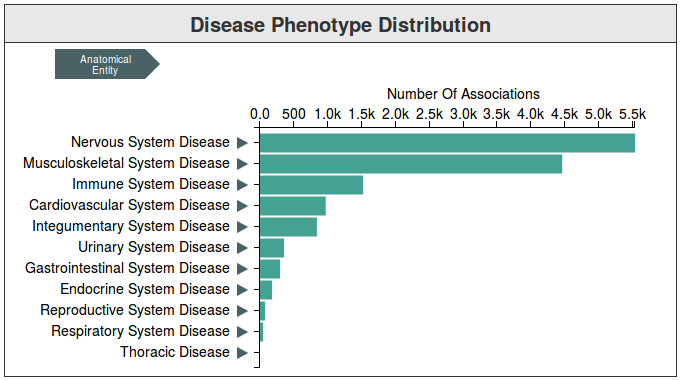
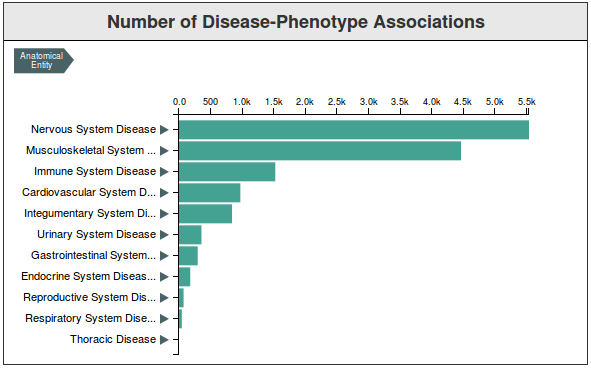
update screenshots on home page, closes #631

Changed region(s): [[0.0, 0.0, 1.0, 1.0]]

diff --git a/js/graph_config.js b/js/graph_config.js
@@ -13,7 +13,7 @@ bbop.monarch.homePageConfig = {
         bread : {width:60, height: 25, offset:50, space: 1},
         
         //Chart margins    
-        margin : {top: 35, right: 63, bottom: 5, left: 174},
+        margin : {top: 35, right: 63, bottom: 5, left: 175},
         
         width : 250,
         height : 300,
@@ -47,7 +47,7 @@ bbop.monarch.homePageConfig = {
         legendFontSize : 10,
         settingsFontSize : '11px',
         
-        maxLabelSize : 24,
+        maxLabelSize : 23,
         
         //Turn on/off legend
         useLegend : true,
@@ -121,7 +121,7 @@ bbop.monarch.phenotypeAnnotationConfig = {
   legendFontSize : 14,
   settingsFontSize : '14px',
   
-  maxLabelSize : 24,
+  maxLabelSize : 23,
   
   //Turn on/off legend
   useLegend : true,
@@ -195,7 +195,7 @@ bbop.monarch.diseaseGeneConfig = {
         legendFontSize : 14,
         settingsFontSize : '14px',
         
-        maxLabelSize : 24,
+        maxLabelSize : 23,
         
         //Turn on/off legend
         useLegend : false,
@@ -269,7 +269,7 @@ bbop.monarch.diseasePhenotypeConfig = {
         legendFontSize : 14,
         settingsFontSize : '14px',
         
-        maxLabelSize : 24,
+        maxLabelSize : 23,
         
         //Turn on/off legend
         useLegend : false,
@@ -343,7 +343,7 @@ bbop.monarch.genotypePhenotypeConfig = {
         legendFontSize : 14,
         settingsFontSize : '14px',
         
-        maxLabelSize : 24,
+        maxLabelSize : 23,
         
         //Turn on/off legend
         useLegend : true,
@@ -398,7 +398,7 @@ bbop.monarch.diseaseGeneConfigSmall = {
         bread : {width:60, height: 25, offset:50, space: 1},
         
         //Chart margins    
-        margin : {top: 35, right: 40, bottom: 5, left: 174},
+        margin : {top: 35, right: 40, bottom: 5, left: 175},
         
         width : 250,
         height : 240,
@@ -432,7 +432,7 @@ bbop.monarch.diseaseGeneConfigSmall = {
         legendFontSize : 10,
         settingsFontSize : '11px',
         
-        maxLabelSize : 24,
+        maxLabelSize : 23,
         
         //Turn on/off legend
         useLegend : false,
@@ -480,7 +480,7 @@ bbop.monarch.diseasePhenotypeConfigSmall = {
         bread : {width:60, height: 25, offset:50, space: 1},
         
         //Chart margins    
-        margin : {top: 35, right: 40, bottom: 5, left: 174},
+        margin : {top: 35, right: 40, bottom: 5, left: 175},
         
         width : 250,
         height : 240,
@@ -514,7 +514,7 @@ bbop.monarch.diseasePhenotypeConfigSmall = {
         legendFontSize : 14,
         settingsFontSize : '11px',
         
-        maxLabelSize : 24,
+        maxLabelSize : 23,
         
         //Turn on/off legend
         useLegend : false,
@@ -562,7 +562,7 @@ bbop.monarch.genotypePhenotypeConfigSmall = {
         bread : {width:60, height: 25, offset:50, space: 1},
         
         //Chart margins    
-        margin : {top: 35, right: 63, bottom: 5, left: 174},
+        margin : {top: 35, right: 63, bottom: 5, left: 175},
         
         width : 250,
         height : 340,
@@ -596,7 +596,7 @@ bbop.monarch.genotypePhenotypeConfigSmall = {
         legendFontSize : 10,
         settingsFontSize : '11px',
         
-        maxLabelSize : 24,
+        maxLabelSize : 23,
         
         //Turn on/off legend
         useLegend : true,
@@ -756,7 +756,7 @@ bbop.monarch.resizeConfig = {
         legendFontSize : 14,
         settingsFontSize : '14px',
         
-        maxLabelSize : 24,
+        maxLabelSize : 23,
         
         //Turn on/off legend
         useLegend : true,
